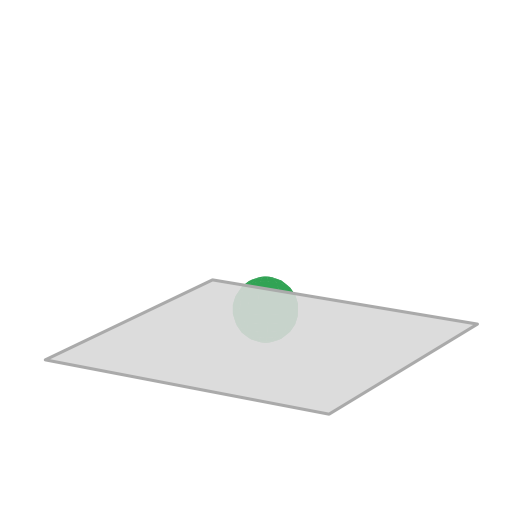
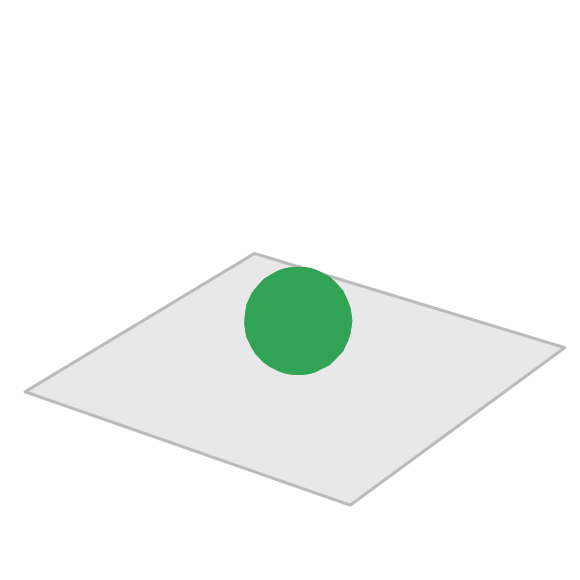
Fix render z-order and annotate the actuated lift panel
The scene renders paint in explicit order (computed_zorder off) so the
ground never draws over the objects, and the fingertip sits at the
push pose against the box face. The actuated lift panel says in-panel
that both ICF arms sit at the plot floor (one visible line, two legend
entries), the same honesty rule as the stiffness collapse.

diff --git a/part1/bench/part1_plots.py b/part1/bench/part1_plots.py
@@ -810,6 +810,11 @@ def actuated() -> None:
                 ax.plot(bad, [1.0] * len(bad), ls="none", marker="x", ms=8, mew=2, color=STYLE[arm]["color"], transform=ax.get_xaxis_transform(), clip_on=False)
         ax.set_xscale("log"); ax.set_yscale("log")
         ax.set_xlabel("K_p (N/m)"); ax.set_ylabel(ylab); ax.grid(True, which="both", alpha=0.3)
+    # Both ICF arms clip to the plot floor in the lift panel (lift <= 0):
+    # one visible line, two legend entries — say so IN the panel so the
+    # legend never claims a curve the eye cannot find.
+    axes[0].annotate("ICF & CENIC: no lift\n(both at plot floor)", xy=(0.04, 0.08),
+                     xycoords="axes fraction", fontsize=6, color=STYLE["icf-adaptive"]["color"])
     axes[0].legend(fontsize=6)
     k = rows[0]["k"]; v = rows[0]["slide_speed"]
     _save(fig, "actuated")
